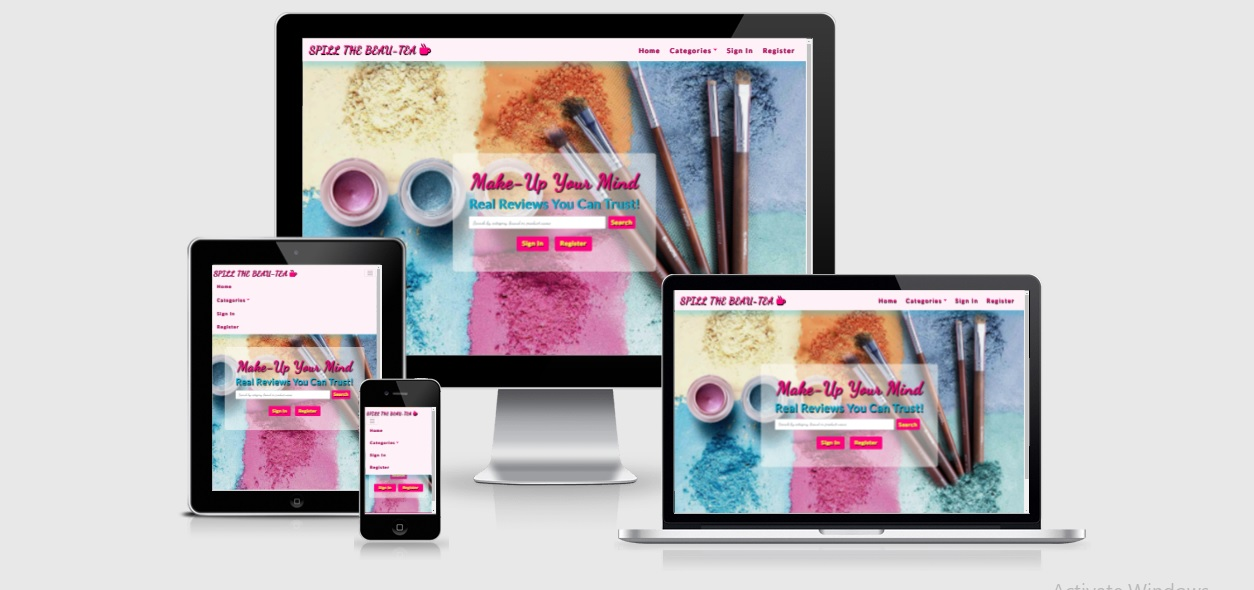
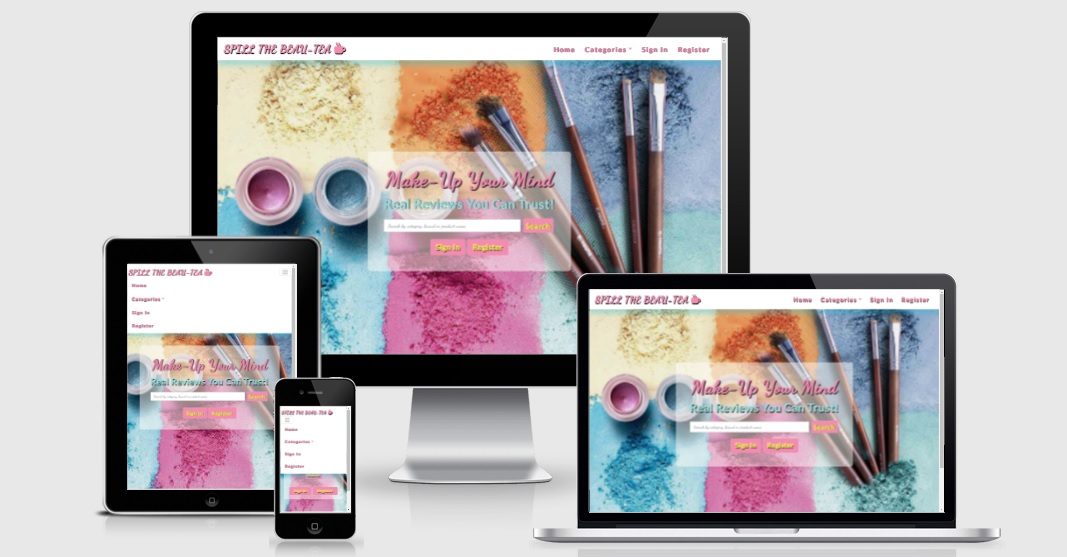
Added media query for product images for larger devices

diff --git a/static/css/style.css b/static/css/style.css
@@ -640,7 +640,6 @@ i.fas.fa-star-half-alt {
     font-size: 1.3rem;
     color: #fbec5d;
     background: #a0dfdf	;
-    letter-spacing: .1rem;
     text-shadow: 2px 2px 2px rgba(0, 0, 0, 1);
     padding: 5px 10px;
     margin-top: 20px;
@@ -1855,6 +1854,11 @@ button#btn-404 a {
 
     select#category_name.form-control {
         padding: 0 280px;
+    }
+
+    .product-image.card-img {
+        padding: 60px 0px;
+        margin-bottom: -100px;
     }
 
     .product-text.card-body{

diff --git a/README.md b/README.md
@@ -43,7 +43,7 @@ This project is a makeup review website developed with the purpose of providing 
 - To provide a contact admin section by email for user queries or suggested products to be included in the site
 
 ## **UX**
-This website was designed for makeup lovers who are looking for honest product reviews from everyday makeup users with the end goal of identifying the products they like and are worth purchasing. The design of this website is fun and inviting with the use of vivid imagery and a bold and vibrant colour palette. The idea is to to create a reliable review platform for users and encourage users to want to sign up and create content and express their honest opinions on products. It is user-friendly, and easy to navigate with clear calls to action.
+This website was designed for makeup lovers who are looking for honest product reviews from everyday makeup users with the end goal of identifying the products they like and are worth purchasing. The design of this website is fun and inviting with the use of vivid imagery and a bright and vibrant colour palette. The idea is to to create a reliable review platform for users and encourage users to want to sign up and create content and express their honest opinions on products. It is user-friendly, and easy to navigate with clear calls to action.
 
 ### **_User Stories_**
 - As a user I would like to understand the purpose of the website
@@ -152,7 +152,7 @@ The registered user CRUD functionality is all accessed through modal forms which
 
 ### **_Surface Plane_**
 #### **_Colours_**
-- The colour palette chosen for this project is bright, fun and vibrant colours. After doing some research into similar sites I found that many makeup product sites are very similar in design using white background and black text, however I wanted my website to stand out amongst the crowd and decided to use pink, blue and yellow as the theme. Makeup is about expressing yourself and allows people to be creative and fun when using products and bright bold colours are extremely popular in makeup products at the moment. 
+- The colour palette chosen for this project is bright, fun and vibrant colours. After doing some research into similar sites I found that many makeup product sites are very similar in design using white background and black text, however I wanted my website to stand out amongst the crowd and decided to use pink, turquoise and yellow as the theme. Makeup is about expressing yourself and allows people to be creative and fun when using products and bright, fun colours are extremely popular in makeup products at the moment. 
 - I wanted people to be visually attracted to the website and wanted to pique the interest of the user so they would be encouraged to join and create content. Today, people have to visit a variety of instagram accounts to get access to product reviews, with each influencer promoting a different product, but sometimes it can be hard to trust those reviews as many influencers get paid to review makeup products. I wanted to create a space for the everyday makeup lover, a place they could go to express their real honest views on makeup products and allow them to keep a record of these items all in one space. 
 - The main background I have kept white for the purpose of not overshadowing the images. The card layout and accordions are a variety of blue with pink text or pink with blue text. Yellow is used for the ratings, call to action buttons/or button text. I have keep the body of content such as review content and product descriptions black purely to make the content readable and clear for the user.
 
@@ -693,7 +693,8 @@ the navbar was remaining open. Code taken from [Orel Eliyahu](https://stackoverf
 - HTML code was used to create the accordion menus on the profile favourites, admin profile, and user feedback and edited for this project. Code was taken from [Bootstrap Documentation](https://getbootstrap.com/docs/4.0/components/collapse/) and edited.
 
 **_Favicon_**
-- Code snippet used to generate a favicon for this website. This code was inserted into the html document in the `<head>` section. I have also included the source files for this in the favicon folder. The website used to generate the favicon and associated files was [Favicon.io](https://favicon.io/).
+- Code snippet used to generate a favicon for this website. This code was inserted into the html document in the `<head>` section. I have also included the source files for this in the favicon folder. The website used to generate the favicon and associated files was [Red Ketchup](https://redketchup.io/favicon-generator)
+.
 ### **Content**
 ### **Media**
 **Images:**
@@ -730,7 +731,7 @@ Images for this project were sourced from a variety of resources shown below:
 - Unsplash
 - Pexels
 - Scheme Colour
-- Favicon.io
+- Redketchup.io
 - Beautifier.io
 - Tutor Support
 

diff --git a/TESTING.md b/TESTING.md
@@ -129,7 +129,7 @@ iPhone, android, android table and iPad and across a variety of browsers Interne
 ![Contact](static/images/user-stories/contact.jpg "Contact Modal")
 
 **_As the owner and user, I want to provide a platform that encourages users to get involved and create content_**
-- The website uses bright bold colours to attract the user and provides alot of user functionality(ability to control their own content, provide user feedback, add products to favourites list etc.)
+- The website uses bright colours to attract the user and provides alot of user functionality(ability to control their own content, provide user feedback, add products to favourites list etc.)
 which will pique the interest of users and encourage user involvement in the content creation 
 
 **_As the owner and user, I want to provide users with relevant and current information_**
@@ -211,10 +211,10 @@ and collapses into a hamburger menu on medium and smaller devices. This is worki
 **_Check that navigation logo link directs user to homepage when clicked._**
 - The navigation logo link is functioning as expected  and when clicked, takes the user back to the homepage. This test was successful.
 
-**_Navigation Links Hover Function: blue colour_**
+**_Navigation Links Hover Function: turquoise colour_**
 
-**_Check that when mouse hovers over navigation links the text changes to blue colour_**
-- When any of the navigation links on the navigation bar are hovered over with the mouse, they should change to a blue colour.
+**_Check that when mouse hovers over navigation links the text changes to turquoise colour_**
+- When any of the navigation links on the navigation bar are hovered over with the mouse, they should change to a turquoise colour.
 All buttons function as expected and no issues were found.
 
 **_Hamburger menu closing after link has been selected._**
@@ -1177,13 +1177,45 @@ I can verify that the footer is fully responsive and the text size is altered to
 
 
 ### **Issues Encountered**
-Contact form:
-Go to the "Contact Us" page
-Try to submit the empty form and verify that an error message about the required fields appears
-Try to submit the form with an invalid email address and verify that a relevant error message appears
-Try to submit the form with all inputs valid and verify that a success message appears.
-In addition, you should mention in this section how your project looks and works on different browsers and screen sizes.
+**_Colour Scheme_**
+- I encountered an issue with the initial colours chosen for this project.
+- Due to issues with my laptop, the colours being displayed were significantly duller in appearance when testing.
+- Only when I tested the website on other devices, I realised that the colours were far too bright and would not be pleasant to the user to view for long periods of time.
+- I made the decision to change the colour scheme to use more muted tones of the initial colour scheme I had chosen.
+- The issue has been resolved and the final version of the website reflects this decision.
 
-You should also mention in this section any interesting bugs or problems you discovered during your testing, even if you haven't addressed them yet.
+**_Search bar_**
+- I tried to submit a search request with an empty field and the search query was allowed.
+- I updated the search query input to make the field required which fixed the issue.
+- The issue has been resolved and the user can not submit a search query when the fied is empty.
+- It will prompt the user to complete the search field.
 
-If this section grows too long, you may want to split it off into a separate file and link to it from here.
+**_Average Rating - Star Display_**
+    making it into a list before template render
+
+**_Favourites - Product Name showing up in favourites list_**
+
+**_SweetAlert Delete Confirmations_**
+targeting the correct item in the loop
+
+**_No rating - Star Display_**
+not picking up the else statement in Jinja
+
+**_No reviews - else statement Jinja_**
+not picking up the else statement in Jinja
+
+**_Edit review button_**
+Picking up the first review in the loop
+
+**_Flash Message Section(Validation HTML)_**
+Showing warning for section not having header element
+
+**_Main container height issue on 404 page_**
+
+**_Footer on register page overlapping register button_**
+
+**_Validation(HTML) issue with anchor tag inside button_**
+
+**_Validation(HTML) issue with anchor tag displaying type_**
+
+**_Validation(HTML) issue with element id values in loops_**
